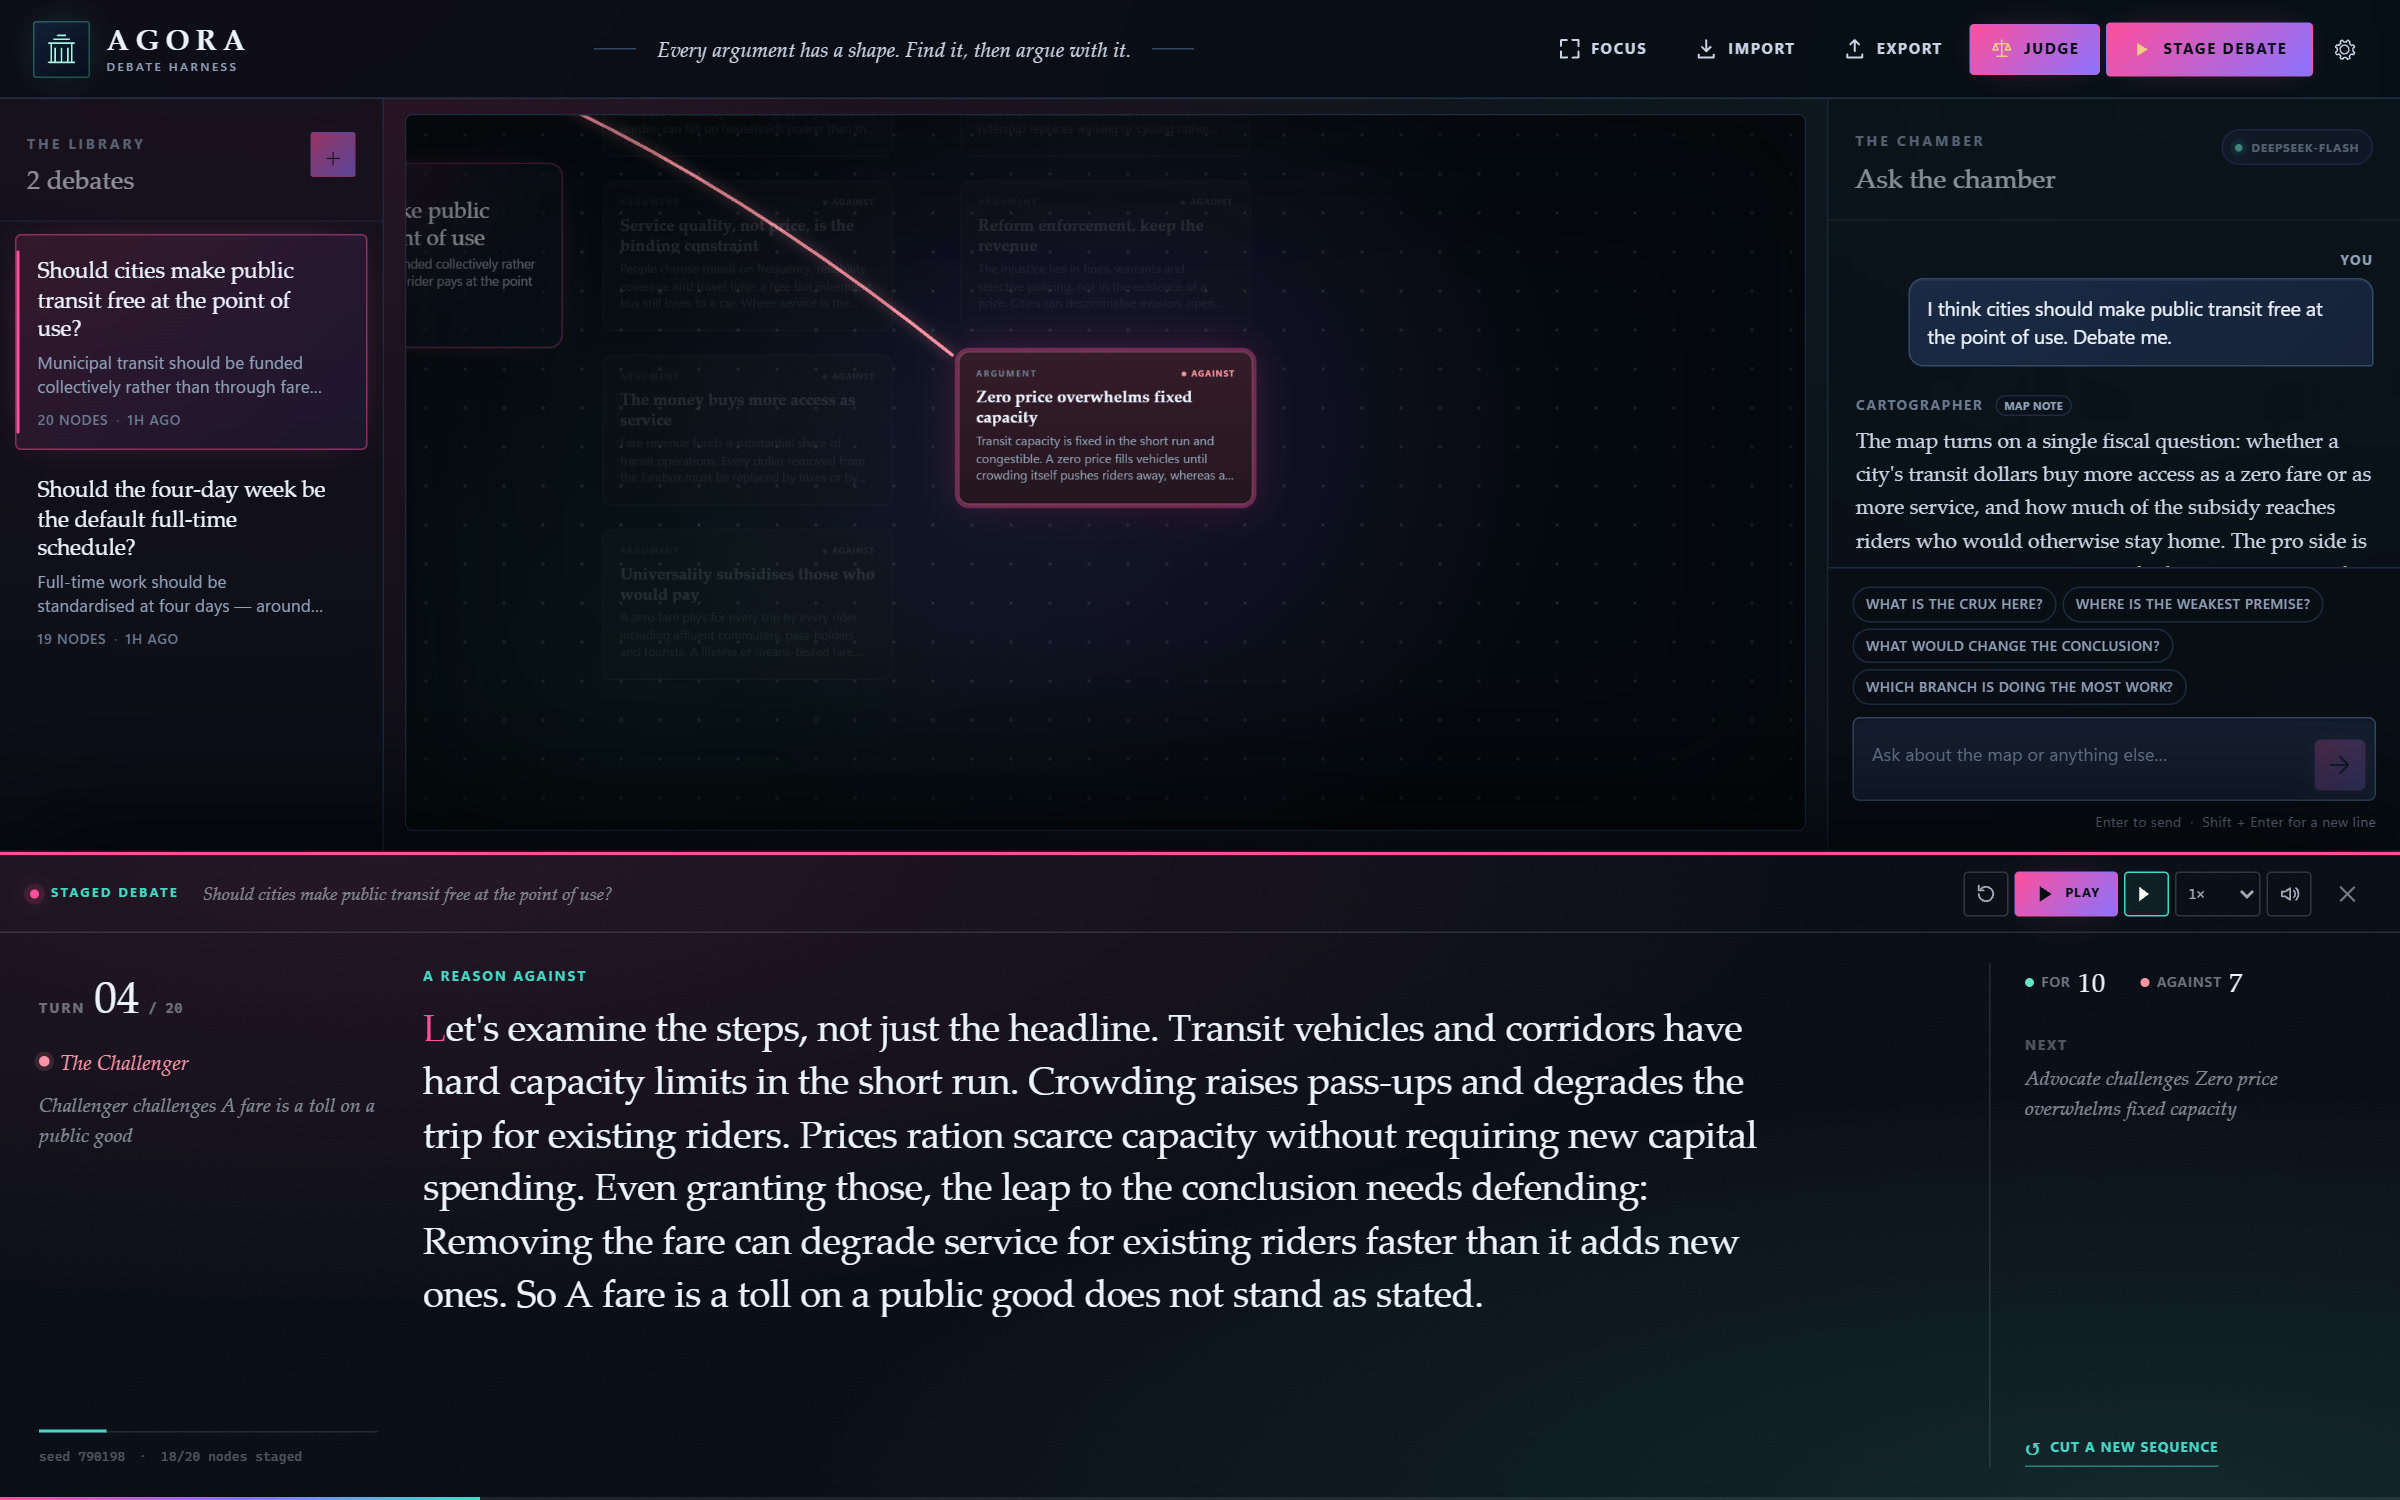
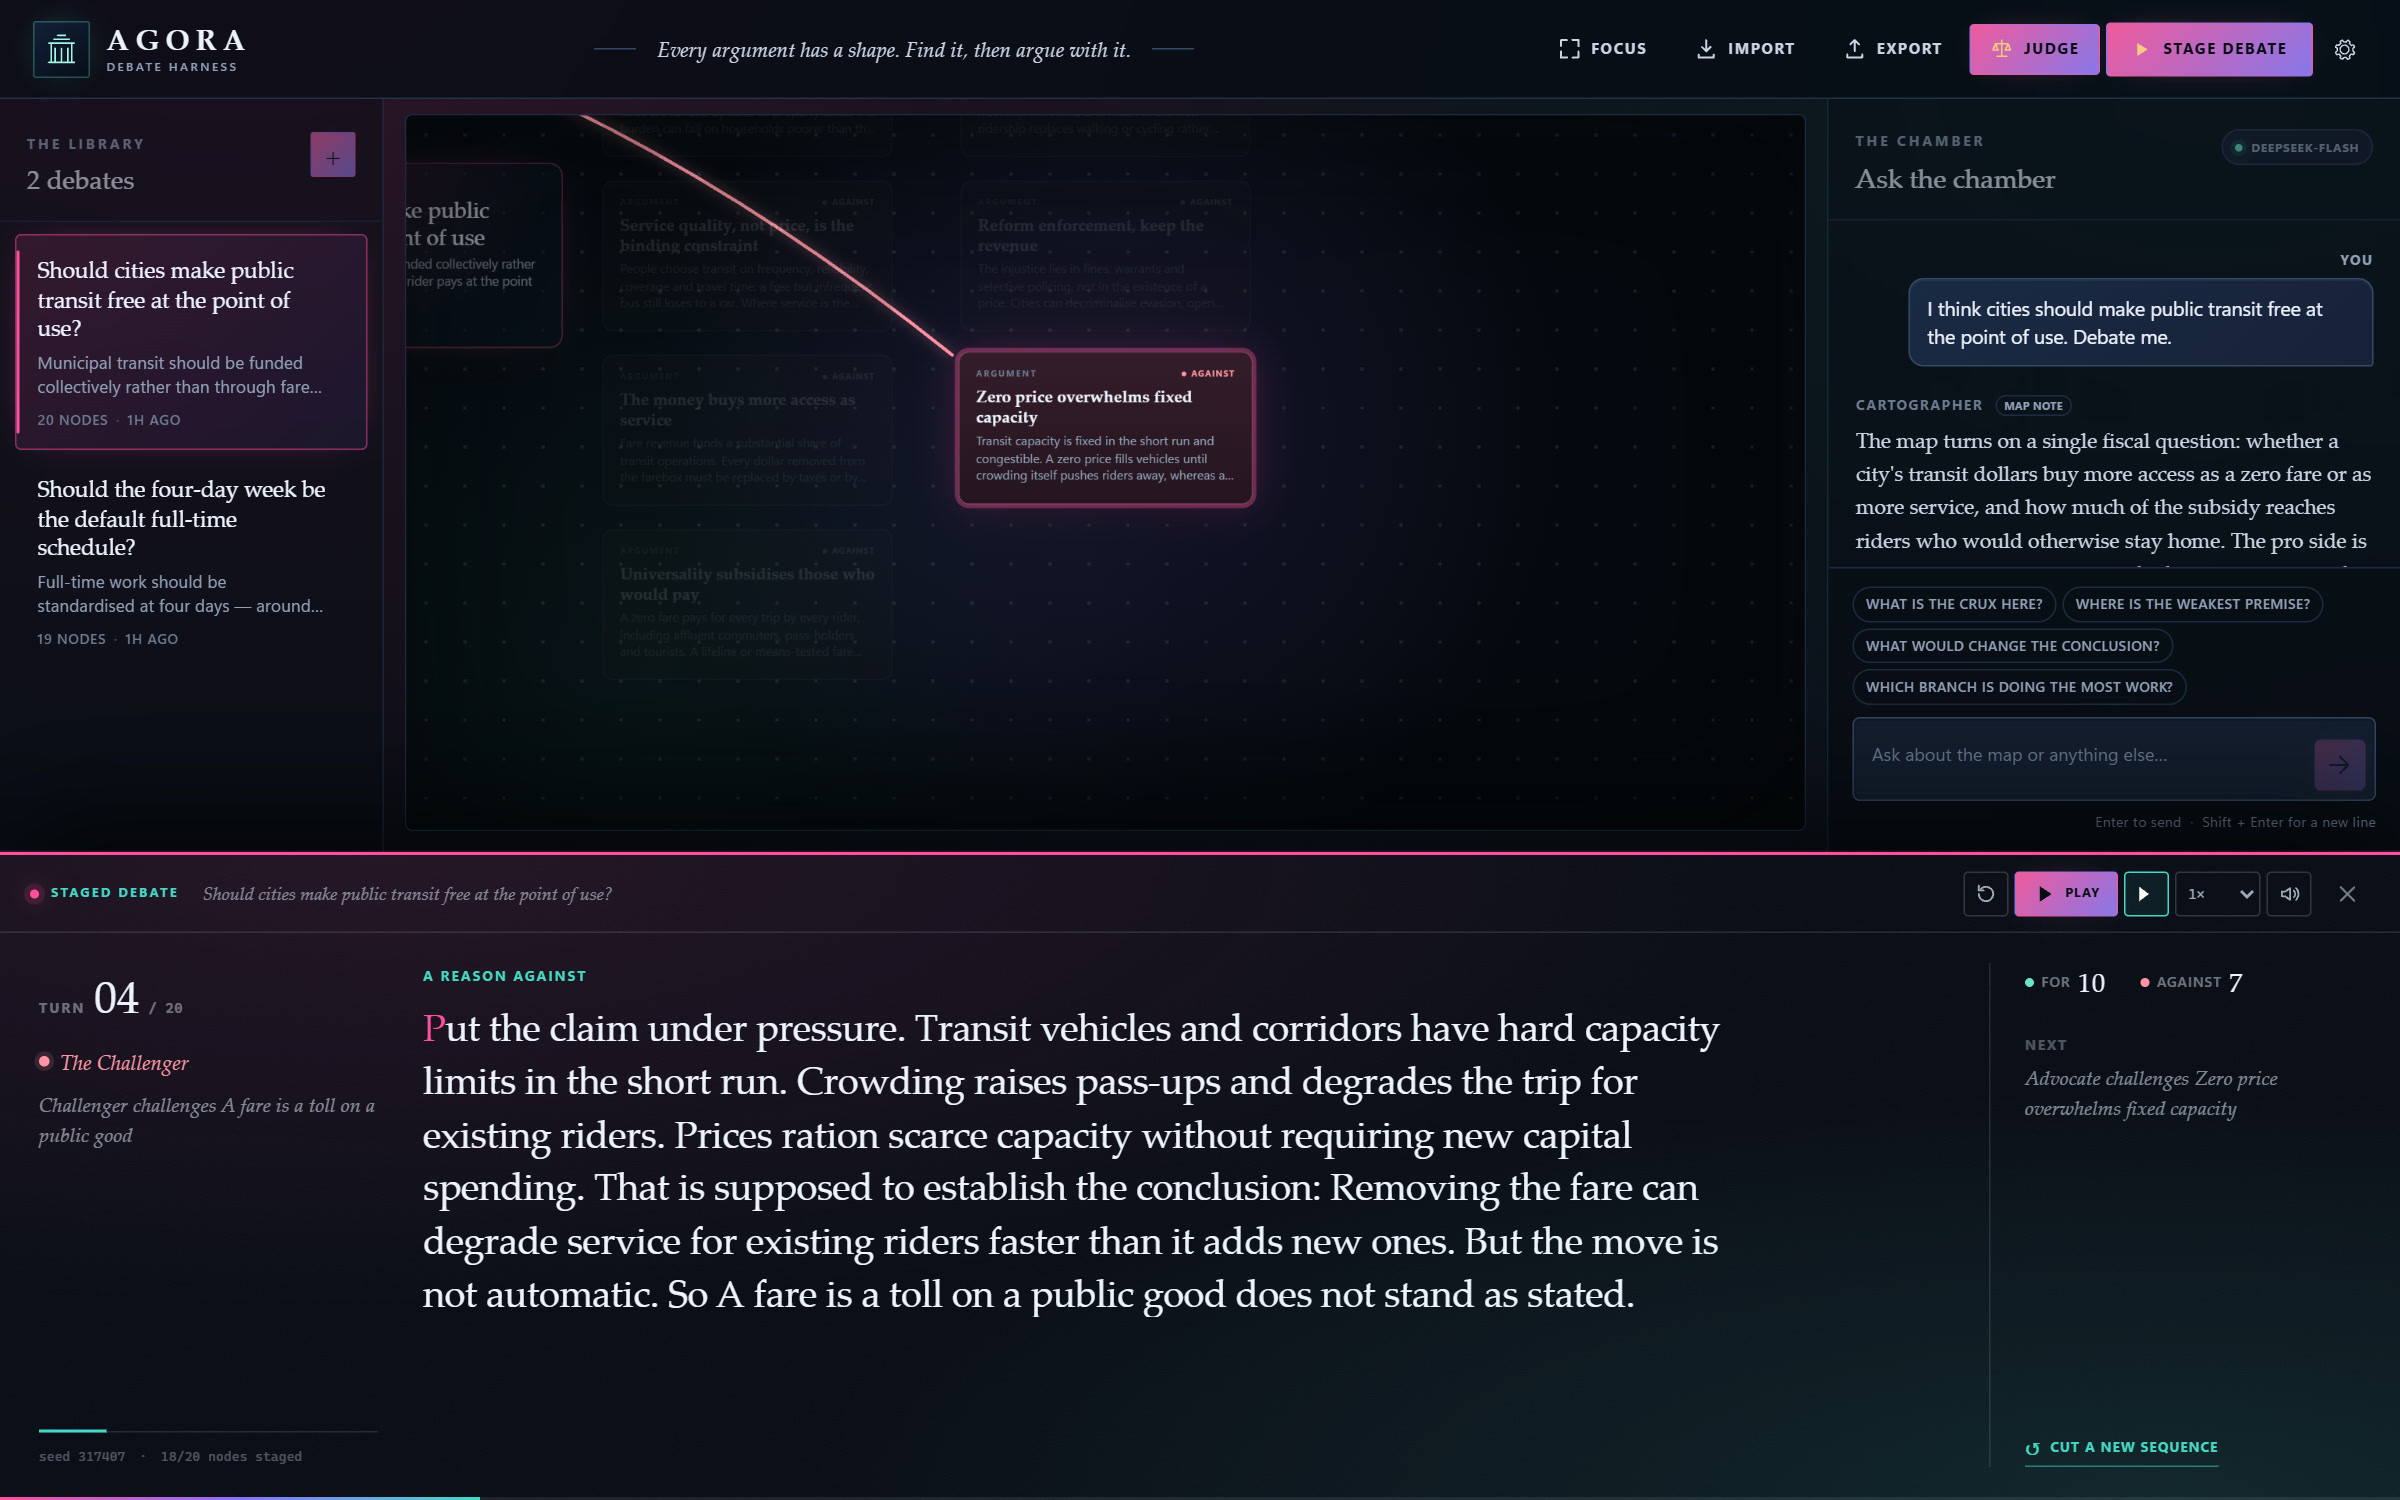
style: soften aurora gradient buttons

Changed region(s): [[0.1875, 0.6747, 0.7188, 0.8893]]

diff --git a/src/ui/aurora.css b/src/ui/aurora.css
@@ -31,6 +31,10 @@ html[data-theme="dark"][data-palette="aurora"] {
   --aurora-pink: #ff4f9d;
   --aurora-teal: #45d9c5;
   --aurora-violet: #8b72ff;
+  --aurora-action-a: #f05a9d;
+  --aurora-action-b: #8877ea;
+  --aurora-action-a-hover: #f76fa9;
+  --aurora-action-b-hover: #9988f0;
   --shadow-soft: 0 1px 0 rgba(0, 0, 0, 0.38), 0 18px 38px -30px rgba(0, 0, 0, 0.95);
   --shadow-card: 0 1px 0 rgba(220, 240, 255, 0.055) inset, 0 16px 34px -28px rgba(0, 0, 0, 0.95);
 }
@@ -93,10 +97,10 @@ html[data-theme="dark"][data-palette="aurora"] .library-card-meta em {
 html[data-theme="dark"][data-palette="aurora"] .library-new {
   background: var(--ink);
   color: #080b14;
-  box-shadow: 0 0 18px -10px rgba(255, 79, 157, 0.75);
+  box-shadow: 0 0 18px -10px rgba(240, 90, 157, 0.72);
 }
 html[data-theme="dark"][data-palette="aurora"] .library-new:hover {
-  background: var(--aurora-pink);
+  background: var(--aurora-action-a);
   color: #080b14;
 }
 html[data-theme="dark"][data-palette="aurora"] .library-delete:hover { background: var(--con-soft); color: var(--con); }
@@ -150,13 +154,13 @@ html[data-theme="dark"][data-palette="aurora"] .chat-intro-mark {
 }
 html[data-theme="dark"][data-palette="aurora"] .chat-intro li::before { color: var(--under); }
 html[data-theme="dark"][data-palette="aurora"] .send-btn {
-  background: linear-gradient(135deg, var(--aurora-pink), var(--aurora-violet));
+  background: linear-gradient(135deg, var(--aurora-action-a), var(--aurora-action-b));
   border-color: transparent;
   color: #080b14;
-  box-shadow: 0 0 18px -10px rgba(255, 79, 157, 0.9);
+  box-shadow: 0 0 18px -10px rgba(240, 90, 157, 0.78);
 }
 html[data-theme="dark"][data-palette="aurora"] .send-btn:hover:not(:disabled) {
-  background: linear-gradient(135deg, #ff6bab, #9b86ff);
+  background: linear-gradient(135deg, var(--aurora-action-a-hover), var(--aurora-action-b-hover));
   border-color: transparent;
 }
 
@@ -202,9 +206,9 @@ html[data-theme="dark"][data-palette="aurora"] .graph-view-toggle {
   border-color: var(--line);
 }
 html[data-theme="dark"][data-palette="aurora"] .graph-view-toggle button.is-active {
-  background: linear-gradient(135deg, rgba(255, 79, 157, 0.12), rgba(139, 114, 255, 0.24));
+  background: linear-gradient(135deg, rgba(240, 90, 157, 0.12), rgba(136, 119, 234, 0.24));
   color: var(--ink);
-  box-shadow: inset 0 0 0 1px rgba(139, 114, 255, 0.34);
+  box-shadow: inset 0 0 0 1px rgba(136, 119, 234, 0.34);
 }
 html[data-theme="dark"][data-palette="aurora"] .graph-hidden:hover { color: var(--ink); border-color: var(--aurora-teal); }
 html[data-theme="dark"][data-palette="aurora"] .graph-hidden b { color: var(--ink); border-bottom-color: var(--aurora-teal); }
@@ -271,24 +275,24 @@ html[data-theme="dark"][data-palette="aurora"] .btn--primary,
 html[data-theme="dark"][data-palette="aurora"] .btn--stage,
 html[data-theme="dark"][data-palette="aurora"] .btn--judge,
 html[data-theme="dark"][data-palette="aurora"] .library-new {
-  background: linear-gradient(135deg, var(--aurora-pink), var(--aurora-violet));
+  background: linear-gradient(135deg, var(--aurora-action-a), var(--aurora-action-b));
   color: #080b14;
   border-color: transparent;
-  box-shadow: 0 0 20px -12px rgba(255, 79, 157, 0.9);
+  box-shadow: 0 0 20px -12px rgba(240, 90, 157, 0.78);
 }
 html[data-theme="dark"][data-palette="aurora"] .btn--primary:hover:not(:disabled),
 html[data-theme="dark"][data-palette="aurora"] .btn--stage:hover,
 html[data-theme="dark"][data-palette="aurora"] .btn--judge:hover:not(:disabled) {
-  background: linear-gradient(135deg, #ff6bab, #9b86ff);
+  background: linear-gradient(135deg, var(--aurora-action-a-hover), var(--aurora-action-b-hover));
   color: #080b14;
   border-color: transparent;
 }
 html[data-theme="dark"][data-palette="aurora"] .btn--judge:hover:not(:disabled) svg { color: var(--gold); }
 html[data-theme="dark"][data-palette="aurora"] .btn--judge.is-active {
-  background: linear-gradient(135deg, var(--aurora-pink), var(--aurora-violet));
+  background: linear-gradient(135deg, var(--aurora-action-a), var(--aurora-action-b));
   color: #080b14;
   border-color: transparent;
-  box-shadow: 0 0 26px -10px rgba(255, 79, 157, 0.9);
+  box-shadow: 0 0 26px -10px rgba(240, 90, 157, 0.78);
 }
 html[data-theme="dark"][data-palette="aurora"] .btn--ghost { background: rgba(139, 114, 255, 0.07); border-color: var(--line-strong); }
 html[data-theme="dark"][data-palette="aurora"] .btn--ghost:hover:not(:disabled) { background: var(--surface); border-color: var(--aurora-teal); }
@@ -318,10 +322,10 @@ html[data-theme="dark"][data-palette="aurora"] .settings-instructions { backgrou
 html[data-theme="dark"][data-palette="aurora"] .instruction-tab.is-active { color: var(--ink); }
 html[data-theme="dark"][data-palette="aurora"] .modal-actions { background: var(--paper); }
 html[data-theme="dark"][data-palette="aurora"] .appearance-segmented .judge-segment.is-selected {
-  background: linear-gradient(135deg, var(--aurora-pink), var(--aurora-violet));
+  background: linear-gradient(135deg, var(--aurora-action-a), var(--aurora-action-b));
   border-color: transparent;
   color: #080b14;
-  box-shadow: 0 0 20px -12px rgba(255, 79, 157, 0.9);
+  box-shadow: 0 0 20px -12px rgba(240, 90, 157, 0.78);
 }
 html[data-theme="dark"][data-palette="aurora"] .export-code { background: #080d17; border-color: var(--line); color: #dbe7f5; }
 html[data-theme="dark"][data-palette="aurora"] .export-code .line--support { color: var(--pro); }
@@ -417,12 +421,12 @@ html[data-theme="dark"][data-palette="aurora"] .stage-icon-btn { border-color: r
 html[data-theme="dark"][data-palette="aurora"] .stage-icon-btn:hover:not(:disabled) { border-color: var(--aurora-teal); color: #fff; background: rgba(69, 217, 197, 0.08); }
 html[data-theme="dark"][data-palette="aurora"] .stage-icon-btn.is-on { color: var(--aurora-teal); border-color: var(--aurora-teal); background: rgba(69, 217, 197, 0.1); }
 html[data-theme="dark"][data-palette="aurora"] .stage-play-btn {
-  background: linear-gradient(135deg, var(--aurora-pink), var(--aurora-violet));
+  background: linear-gradient(135deg, var(--aurora-action-a), var(--aurora-action-b));
   border-color: transparent;
   color: #080b14;
-  box-shadow: 0 0 20px -12px rgba(255, 79, 157, 0.9);
+  box-shadow: 0 0 20px -12px rgba(240, 90, 157, 0.78);
 }
-html[data-theme="dark"][data-palette="aurora"] .stage-play-btn:hover { background: linear-gradient(135deg, #ff6bab, #9b86ff); border-color: transparent; color: #080b14; }
+html[data-theme="dark"][data-palette="aurora"] .stage-play-btn:hover { background: linear-gradient(135deg, var(--aurora-action-a-hover), var(--aurora-action-b-hover)); border-color: transparent; color: #080b14; }
 html[data-theme="dark"][data-palette="aurora"] .stage-speed select { border-color: rgba(203, 212, 229, 0.2); color: rgba(203, 212, 229, 0.78); }
 html[data-theme="dark"][data-palette="aurora"] .stage-speed select option { background: #101827; color: var(--ink); }
 html[data-theme="dark"][data-palette="aurora"] .stage-close-btn { color: rgba(203, 212, 229, 0.55); }
